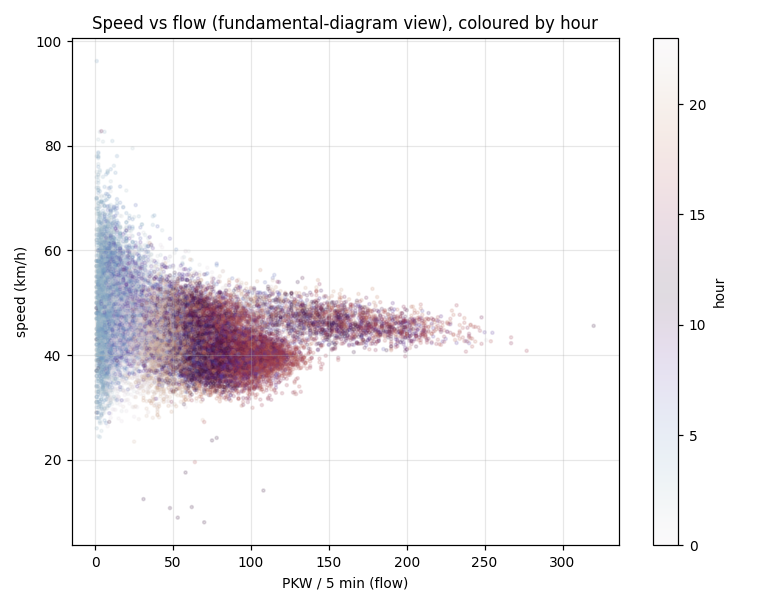
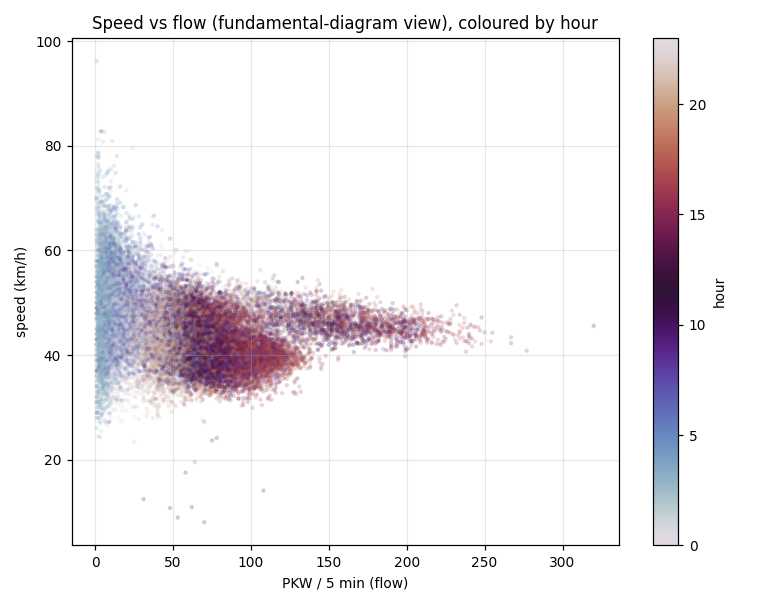
tc073+te180-deepdive: make speed-vs-flow hour colorbar opaque
The colorbar was built from the scatter mappable, so it inherited the
points' alpha=0.15 and rendered washed-out — the hour scale was hard to
read. Draw the colorbar from a separate opaque ScalarMappable (same cmap
and norm) instead. The scatter (alpha and twilight colormap) is unchanged.

Changed region(s): [[0.8416, 0.0595, 0.9039, 0.9223]]

diff --git a/berlin-traffic-groundwork/tc073-deepdive/analyze.py b/berlin-traffic-groundwork/tc073-deepdive/analyze.py
@@ -17,6 +17,7 @@ import matplotlib
 matplotlib.use("Agg")
 import matplotlib.pyplot as plt
 import matplotlib.dates as mdates
+import matplotlib.cm as cm
 
 HERE = os.path.dirname(os.path.abspath(__file__))
 DATA = os.path.join(HERE, "data", "tc073_pkw_5min.csv")
@@ -149,7 +150,10 @@ def fig_fundamental(df):
                     c=(d["hour"].values), cmap="twilight")
     ax.set_xlabel("PKW / 5 min (flow)"); ax.set_ylabel("speed (km/h)")
     ax.set_title("Speed vs flow (fundamental-diagram view), coloured by hour")
-    fig.colorbar(sc, ax=ax, label="hour")
+    # colorbar from an opaque proxy (same cmap/norm) so the scatter's alpha
+    # doesn't wash out the swatch and make the hour scale unreadable
+    sm = cm.ScalarMappable(norm=sc.norm, cmap=sc.cmap); sm.set_array([])
+    fig.colorbar(sm, ax=ax, label="hour")
     fig.tight_layout(); fig.savefig(f"{FIG}/08_speed_vs_flow.png"); plt.close(fig)
 
 # ----------------------------------------------------- breaks / outages / zeros

diff --git a/berlin-traffic-groundwork/te180-deepdive/analyze.py b/berlin-traffic-groundwork/te180-deepdive/analyze.py
@@ -230,7 +230,10 @@ def fig_fundamental(df):
                     c=(d["hour"].values), cmap="twilight")
     ax.set_xlabel("PKW / 5 min (flow)"); ax.set_ylabel("speed (km/h)")
     ax.set_title("Speed vs flow (fundamental-diagram view), coloured by hour")
-    fig.colorbar(sc, ax=ax, label="hour")
+    # colorbar from an opaque proxy (same cmap/norm) so the scatter's alpha
+    # doesn't wash out the swatch and make the hour scale unreadable
+    sm = cm.ScalarMappable(norm=sc.norm, cmap=sc.cmap); sm.set_array([])
+    fig.colorbar(sm, ax=ax, label="hour")
     fig.tight_layout(); fig.savefig(f"{FIG}/08_speed_vs_flow.png"); plt.close(fig)
 
 # ----------------------------------------------------- breaks / outages / zeros
